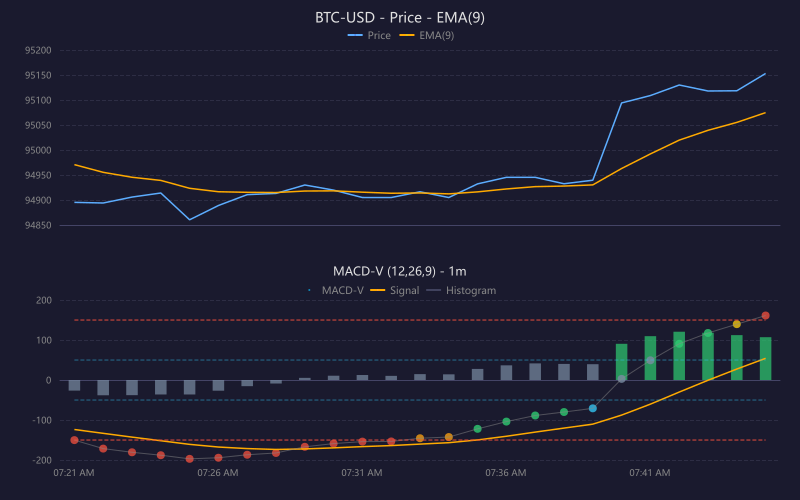
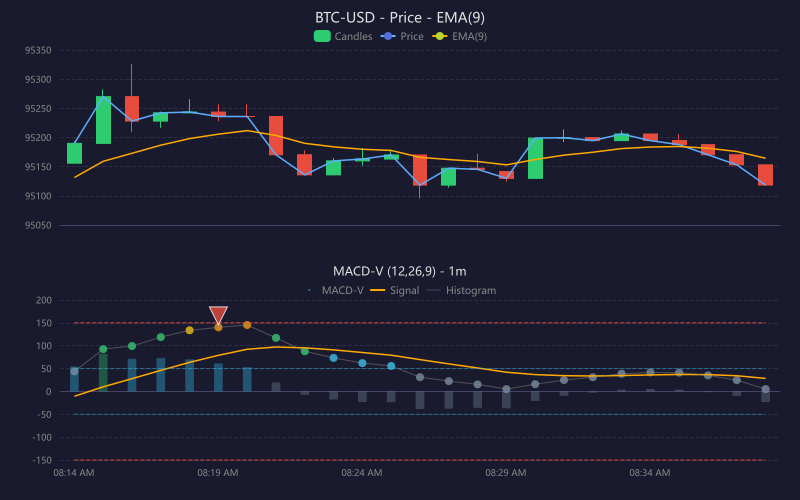
Add alert markers from PostgreSQL to MACD-V charts
Integrates PostgreSQL to fetch alert history and display oversold/overbought markers on MACD-V charts. Updates chart rendering to include candlesticks and alert markers, refines price axis formatting, and adds database environment variable support in the PowerShell runner. Updates dependencies to include 'pg'.

diff --git a/spikes/echarts-test/generate-chart-redis.js b/spikes/echarts-test/generate-chart-redis.js
@@ -8,6 +8,7 @@
 const echarts = require('echarts');
 const { createCanvas } = require('canvas');
 const Redis = require('ioredis');
+const { Pool } = require('pg');
 const fs = require('fs');
 
 // Hermes Color Zones
@@ -146,8 +147,69 @@ async function fetchCandles(redis, symbol, timeframe, count) {
   return results.map(json => JSON.parse(json));
 }
 
+// Fetch alerts from database for the given time range
+async function fetchAlerts(pool, symbol, timeframe, minTimestamp) {
+  const exchangeId = 1;
+
+  const query = `
+    SELECT
+      triggered_at_epoch,
+      trigger_label,
+      trigger_value
+    FROM alert_history
+    WHERE exchange_id = $1
+      AND symbol = $2
+      AND timeframe = $3
+      AND triggered_at_epoch >= $4
+    ORDER BY triggered_at_epoch ASC
+  `;
+
+  const result = await pool.query(query, [exchangeId, symbol, timeframe, minTimestamp]);
+  console.log(`Found ${result.rows.length} alerts in time range`);
+
+  return result.rows.map(row => ({
+    timestamp: parseInt(row.triggered_at_epoch),
+    triggerLabel: row.trigger_label,
+    triggerValue: parseFloat(row.trigger_value),
+  }));
+}
+
+// Map alerts to bar indices based on candle timestamps
+function mapAlertsToBarIndices(candles, alerts) {
+  const alertMarkers = [];
+
+  for (const alert of alerts) {
+    // Find the candle that contains this alert timestamp
+    for (let i = 0; i < candles.length; i++) {
+      const candle = candles[i];
+      const candleStart = candle.timestamp;
+      // Assume candle duration based on next candle or reasonable default
+      const candleEnd = i < candles.length - 1
+        ? candles[i + 1].timestamp
+        : candleStart + 60000; // Default 1 minute
+
+      if (alert.timestamp >= candleStart && alert.timestamp < candleEnd) {
+        // Determine alert type from trigger_label
+        const isOversold = alert.triggerLabel.includes('oversold') ||
+          alert.triggerLabel.match(/level_-\d+/);
+
+        alertMarkers.push({
+          barIndex: i,
+          type: isOversold ? 'oversold' : 'overbought',
+          label: alert.triggerLabel,
+          value: alert.triggerValue,
+        });
+        break;
+      }
+    }
+  }
+
+  return alertMarkers;
+}
+
 // Create the chart
-function createMacdVChart(candles, indicators, symbol, timeframe) {
+// alertMarkers: Array<{ barIndex: number, type: 'oversold' | 'overbought', label: string }> - optional alert markers
+function createMacdVChart(candles, indicators, symbol, timeframe, alertMarkers = []) {
   const canvas = createCanvas(800, 500);
   const chart = echarts.init(canvas);
 
@@ -159,6 +221,9 @@ function createMacdVChart(candles, indicators, symbol, timeframe) {
 
   const prices = candles.map(c => c.close);
   const { macdV, signal, histogram, ema9 } = indicators;
+
+  // Candlestick data format: [open, close, low, high]
+  const candlestickData = candles.map(c => [c.open, c.close, c.low, c.high]);
 
   // Histogram bars colored by magnitude
   const histogramData = histogram.map((h) => ({
@@ -188,12 +253,12 @@ function createMacdVChart(candles, indicators, symbol, timeframe) {
 
     legend: [
       {
-        data: ['Price', 'EMA(9)'],
+        data: ['Candles', 'Price', 'EMA(9)'],
         top: 25,
         left: 'center',
         textStyle: { color: DARK_THEME.textSecondary, fontSize: 10 },
         itemWidth: 15,
-        itemHeight: 2,
+        itemHeight: 10,
       },
       {
         data: ['MACD-V', 'Signal', 'Histogram'],
@@ -236,7 +301,17 @@ function createMacdVChart(candles, indicators, symbol, timeframe) {
         scale: true,
         splitLine: { lineStyle: { color: DARK_THEME.grid, type: 'dashed' } },
         axisLine: { lineStyle: { color: DARK_THEME.axisLine } },
-        axisLabel: { color: DARK_THEME.textSecondary, fontSize: 9, formatter: v => v.toFixed(0) },
+        axisLabel: {
+          color: DARK_THEME.textSecondary,
+          fontSize: 9,
+          formatter: v => {
+            // Smart decimal formatting based on price magnitude
+            if (v >= 1000) return v.toFixed(0);
+            if (v >= 1) return v.toFixed(2);
+            if (v >= 0.01) return v.toFixed(4);
+            return v.toFixed(6);
+          }
+        },
       },
       {
         type: 'value',
@@ -248,7 +323,22 @@ function createMacdVChart(candles, indicators, symbol, timeframe) {
     ],
 
     series: [
-      // Price line
+      // Candlesticks
+      {
+        name: 'Candles',
+        type: 'candlestick',
+        xAxisIndex: 0,
+        yAxisIndex: 0,
+        data: candlestickData,
+        itemStyle: {
+          color: '#2ECC71',        // Bullish (close > open) - lime
+          color0: '#E74C3C',       // Bearish (close < open) - red
+          borderColor: '#2ECC71',
+          borderColor0: '#E74C3C',
+        },
+        z: 1,
+      },
+      // Price line (close prices)
       {
         name: 'Price',
         type: 'line',
@@ -257,6 +347,7 @@ function createMacdVChart(candles, indicators, symbol, timeframe) {
         data: prices,
         symbol: 'none',
         lineStyle: { color: '#5cadff', width: 1.5 },
+        z: 2,
       },
       // EMA(9) line
       {
@@ -267,17 +358,18 @@ function createMacdVChart(candles, indicators, symbol, timeframe) {
         data: ema9,
         symbol: 'none',
         lineStyle: { color: '#ffaa00', width: 1.5 },
+        z: 2,
       },
-      // Histogram bars
+      // Histogram bars (very subtle, behind everything)
       {
         name: 'Histogram',
         type: 'bar',
         xAxisIndex: 1,
         yAxisIndex: 1,
         data: histogramData,
-        barWidth: '40%',
-        z: 1,
-        itemStyle: { opacity: 0.7 },
+        barWidth: '30%',
+        z: 0,
+        itemStyle: { opacity: 0.35 },
       },
       // Signal line
       {
@@ -344,6 +436,70 @@ function createMacdVChart(candles, indicators, symbol, timeframe) {
     ],
   };
 
+  // Add alert markers if provided
+  if (alertMarkers.length > 0) {
+    const oversoldMarkers = [];
+    const overboughtMarkers = [];
+
+    for (const marker of alertMarkers) {
+      if (marker.barIndex >= 0 && marker.barIndex < macdV.length) {
+        const alertValue = macdV[marker.barIndex];
+        const isOversold = marker.type === 'oversold';
+
+        // Position triangle above (overbought) or below (oversold) the MACD-V value
+        const offset = isOversold ? -25 : 25;
+        const markerY = alertValue + offset;
+
+        const markerData = {
+          value: [marker.barIndex, markerY],
+          itemStyle: {
+            color: isOversold ? HERMES_COLORS.lime : HERMES_COLORS.red,
+            borderColor: '#ffffff',
+            borderWidth: 1,
+          },
+        };
+
+        if (isOversold) {
+          oversoldMarkers.push(markerData);
+        } else {
+          overboughtMarkers.push(markerData);
+        }
+      }
+    }
+
+    // Add oversold markers (green triangles pointing up)
+    if (oversoldMarkers.length > 0) {
+      option.series.push({
+        name: 'Oversold Alert',
+        type: 'scatter',
+        xAxisIndex: 1,
+        yAxisIndex: 1,
+        data: oversoldMarkers,
+        symbol: 'triangle',
+        symbolSize: 18,
+        symbolRotate: 0,
+        z: 10,
+      });
+    }
+
+    // Add overbought markers (red triangles pointing down)
+    if (overboughtMarkers.length > 0) {
+      option.series.push({
+        name: 'Overbought Alert',
+        type: 'scatter',
+        xAxisIndex: 1,
+        yAxisIndex: 1,
+        data: overboughtMarkers,
+        symbol: 'triangle',
+        symbolSize: 18,
+        symbolRotate: 180,
+        z: 10,
+      });
+    }
+
+    console.log(`Added ${oversoldMarkers.length} oversold and ${overboughtMarkers.length} overbought markers`);
+  }
+
   chart.setOption(option);
   return chart;
 }
@@ -355,7 +511,7 @@ async function main() {
   const timeframe = args[1] || '1m';
   const bars = parseInt(args[2]) || 25;
 
-  console.log(`Generating chart for ${symbol} (${timeframe}, ${bars} bars)`);
+  console.log(`Generating chart for ${symbol} (${timeframe}, ${bars} bars})`);
 
   // Connect to Redis
   const redis = new Redis({
@@ -364,16 +520,27 @@ async function main() {
     password: process.env.REDIS_PASSWORD || undefined,
   });
 
-  try {
-    // Fetch candles
-    const candles = await fetchCandles(redis, symbol, timeframe, bars + 30); // Extra for EMA warmup
+  // Connect to PostgreSQL
+  // Build connection string from individual env vars (matching project convention)
+  const dbHost = process.env.DATABASE_HOST || 'localhost';
+  const dbPort = process.env.DATABASE_PORT || '5432';
+  const dbUser = process.env.DATABASE_LIVERMORE_USERNAME;
+  const dbPass = process.env.DATABASE_LIVERMORE_PASSWORD;
+  const dbName = process.env.LIVERMORE_DATABASE_NAME || 'livermore';
 
-    // Calculate indicators
+  const connectionString = `postgresql://${dbUser}:${dbPass}@${dbHost}:${dbPort}/${dbName}`;
+  const pool = new Pool({ connectionString });
+
+  try {
+    // Fetch candles (extra for EMA warmup)
+    const allCandles = await fetchCandles(redis, symbol, timeframe, bars + 30);
+
+    // Calculate indicators on all candles
     console.log('Calculating MACD-V...');
-    const indicators = calculateMACDV(candles);
+    const indicators = calculateMACDV(allCandles);
 
     // Use only the last N bars for display
-    const displayCandles = candles.slice(-bars);
+    const displayCandles = allCandles.slice(-bars);
     const displayIndicators = {
       macdV: indicators.macdV.slice(-bars),
       signal: indicators.signal.slice(-bars),
@@ -381,9 +548,23 @@ async function main() {
       ema9: indicators.ema9.slice(-bars),
     };
 
-    // Create chart
+    // Get the minimum timestamp from display candles for alert query
+    const minTimestamp = displayCandles[0].timestamp;
+    console.log(`Chart time range starts at: ${new Date(minTimestamp).toISOString()}`);
+
+    // Fetch alerts from database
+    console.log('Fetching alerts from database...');
+    const alerts = await fetchAlerts(pool, symbol, timeframe, minTimestamp);
+
+    // Map alerts to bar indices
+    const alertMarkers = mapAlertsToBarIndices(displayCandles, alerts);
+    if (alertMarkers.length > 0) {
+      console.log('Alert markers:', alertMarkers.map(m => `${m.label} at bar ${m.barIndex}`).join(', '));
+    }
+
+    // Create chart with alert markers
     console.log('Creating chart...');
-    const chart = createMacdVChart(displayCandles, displayIndicators, symbol, timeframe);
+    const chart = createMacdVChart(displayCandles, displayIndicators, symbol, timeframe, alertMarkers);
 
     // Export
     console.log('Exporting to PNG...');
@@ -397,6 +578,7 @@ async function main() {
     chart.dispose();
   } finally {
     redis.disconnect();
+    await pool.end();
   }
 }
 
